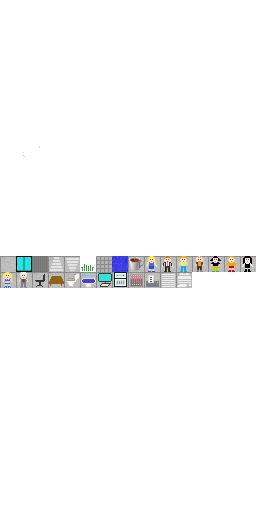
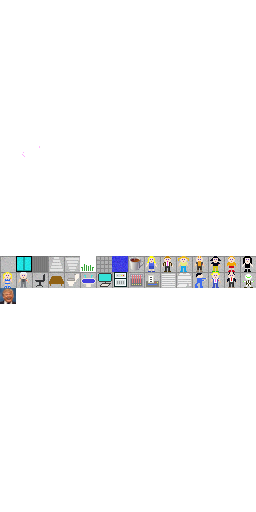
Add content for all levels, some sprites, missions and other content. 37 hours out of 40.

Changed region(s): [[0.75, 0.5312, 1.0, 0.5625], [0.0, 0.5625, 0.0625, 0.5938]]

diff --git a/src/mode_stack/game_mode.cpp b/src/mode_stack/game_mode.cpp
@@ -155,6 +155,84 @@ void spawn_npc(const uint8_t &type, const int &x, const int &y, const int &level
 					{ "says \"Have you tried turning it off and then back on again?\"", 1 }
 				}});
 		} break;
+        case 'z' : {
+            create_entity()->assign(renderable_t{284, rltk::colors::WHITE})
+                    ->assign(position_t{x,y,level})
+                    ->assign(name_t{"Office Zombie"})
+                    ->assign(static_ai{})
+                    ->assign(viewshed_t{3})
+                    ->assign(despair_attack_t{{
+                                                      { "says \"Brains!\"", 1 },
+                                                      { "says \"Oh no, another 18 hours to go!\"", 1 },
+                                                      { "says \"Abandon all hope!\"", 1 },
+                                                      { "says \"If I don't make my quota, it's my last day. Thank God.\"", 1 }
+                                              }});
+        } break;
+        case 'M' : {
+            create_entity()->assign(renderable_t{286, rltk::colors::WHITE})
+                    ->assign(position_t{x,y,level})
+                    ->assign(name_t{"Manager"})
+                    ->assign(nuisance_ai{})
+                    ->assign(viewshed_t{5})
+                    ->assign(despair_attack_t{{
+                                                      { "says \"Yeah, I'm gonna need you to come in at the weekend\"", 1 },
+                                                      { "says \"How are those TPS reports coming along?\"", 1 },
+                                                      { "says \"You really need to work on your synergy\"", 1 },
+                                                      { "says \"When you use the bathroom, use less paper and think of the bottom line\"", 1 },
+                                                      { "says \"Drink less coffee!\"", 1 },
+                                                      { "says \"Is it good for the company?\"", 1 },
+                                                      { "says \"Just another cog in the wheel\"", 1 }
+                                              }});
+        } break;
+        case 'm' : {
+            create_entity()->assign(renderable_t{285, rltk::colors::WHITE})
+                    ->assign(position_t{x,y,level})
+                    ->assign(name_t{"Junior Manager"})
+                    ->assign(nuisance_ai{})
+                    ->assign(viewshed_t{4})
+                    ->assign(despair_attack_t{{
+                                                      { "says \"Yeah, I'm gonna need you to come in at the weekend\"", 1 },
+                                                      { "says \"How are those TPS reports coming along?\"", 1 },
+                                                      { "says \"You really need to work on your synergy\"", 1 },
+                                                      { "says \"When you use the bathroom, use less paper and think of the bottom line\"", 1 },
+                                                      { "says \"Drink less coffee!\"", 1 },
+                                                      { "says \"Is it good for the company?\"", 1 },
+                                                      { "says \"Just another cog in the wheel\"", 1 }
+                                              }});
+        } break;
+        case 'R' : {
+            create_entity()->assign(renderable_t{287, rltk::colors::WHITE})
+                    ->assign(position_t{x,y,level})
+                    ->assign(name_t{"Paranoid Andriod"})
+                    ->assign(nuisance_ai{})
+                    ->assign(viewshed_t{3})
+                    ->assign(despair_attack_t{{
+                                                      { "says \"Here I am, brain the size of a planet... and you want TPS reports\"", 1 },
+                                                      { "says \"I calculated the odds. You won't like it.\"", 1 }
+                                              }});
+        } break;
+        case 'C' : {
+            create_entity()->assign(renderable_t{288, rltk::colors::WHITE})
+                    ->assign(position_t{x,y,level})
+                    ->assign(name_t{"CEO"})
+                    ->assign(nuisance_ai{})
+                    ->assign(viewshed_t{3})
+                    ->assign(despair_attack_t{{
+                                                      { "says \"It's not a cost. It's an investment in your soul.\"", 1 },
+                                                      { "says \"Have I told you about my home in the Hamptons?\"", 1 }
+                                              }});
+        } break;
+        case 'S' : {
+            create_entity()->assign(renderable_t{'s', rltk::colors::WHITE})
+                    ->assign(position_t{x,y,level})
+                    ->assign(name_t{"Security Guard"})
+                    ->assign(nuisance_ai{})
+                    ->assign(viewshed_t{4})
+                    ->assign(despair_attack_t{{
+                                                      { "says \"I've got my eyes on you!\"", 1 },
+                                                      { "says \"You don't look very trustworthy to me!\"", 1 }
+                                              }});
+        } break;
 		case ' ' : {} break;
 		default : {
 			std::cout << "Unknown REX entity: " << +type << "\n";
@@ -176,6 +254,7 @@ void set_map_tile(const vchar &c, const int &x, const int &y, const int &z, map_
 	const int idx = mapidx(x,y,z);
 	switch (c.glyph) {
 		case '.' : map.tile_type[idx] = tiles::FLOOR; break;
+        case ',' : map.tile_type[idx] = tiles::FLOOR_RED; break;
 		case '^' : map.tile_type[idx] = tiles::FREEDOM; break;
 		case '"' : map.tile_type[idx] = tiles::GRASS; break;
 		case '~' : map.tile_type[idx] = tiles::PATH; break;
@@ -214,6 +293,14 @@ void set_map_tile(const vchar &c, const int &x, const int &y, const int &z, map_
 				->assign(name_t{"Sink"})
 				->assign(blocker_t{});
 		} break;
+        case 207 : {
+            // Sink
+            map.tile_type[idx] = tiles::FLOOR;
+            create_entity()->assign(renderable_t{277, rltk::colors::WHITE})
+                    ->assign(position_t{x,y,z})
+                    ->assign(name_t{"Sink"})
+                    ->assign(blocker_t{});
+        } break;
 		case 167 : {
 			// Coffee Station
 			add_coffee_machine(x,y,z,map);
@@ -277,70 +364,21 @@ void set_map_tile(const vchar &c, const int &x, const int &y, const int &z, map_
 	}
 }
 
-void build_lobby(map_t &map) {
-	xp::rex_sprite lobby("assets/lobby.xp");
-	for (int y=0; y<MAP_HEIGHT; ++y) {
-		for (int x=0; x<MAP_WIDTH; ++x) {
-			const vchar * c = lobby.get_tile(0,x,y);
-			const int idx = mapidx(x,y,3);
+void load_prefab(const std::string filename, const int level, map_t &map) {
+    xp::rex_sprite lobby(filename);
+    for (int y=0; y<MAP_HEIGHT; ++y) {
+        for (int x=0; x<MAP_WIDTH; ++x) {
+            const vchar * c = lobby.get_tile(0,x,y);
+            const int idx = mapidx(x,y,level);
 
-			// Tiles
-			set_map_tile(*c, x, y, 3, map);
+            // Tiles
+            set_map_tile(*c, x, y, level, map);
 
-			// Spawners
-			const vchar * spawner = lobby.get_tile(1,x,y);
-			spawn_npc(spawner->glyph, x, y, 3);
-		}
-	}
-}
-
-void fill_all_except_stair_circle(map_t &map, const int &level) {
-	for (int y=0; y<MAP_HEIGHT; ++y) {
-		for (int x=0; x<MAP_WIDTH; ++x) {
-			const float distance = distance2d(x,y, MAP_WIDTH/2, MAP_HEIGHT/2);
-			if (distance > 5.0F) map.tile_type[mapidx(x,y,level)] = tiles::WALL;
-		}
-	}
-}
-
-void build_rnd_caverns(map_t &map) {
-	xp::rex_sprite lobby("assets/researchlab.xp");
-	for (int y=0; y<MAP_HEIGHT; ++y) {
-		for (int x=0; x<MAP_WIDTH; ++x) {
-			const vchar * c = lobby.get_tile(0,x,y);
-			const int idx = mapidx(x,y,0);
-
-			// Tiles
-			set_map_tile(*c, x, y, 0, map);
-
-			// Spawners
-			const vchar * spawner = lobby.get_tile(1,x,y);
-			spawn_npc(spawner->glyph, x, y, 0);
-		}
-	}
-}
-
-void build_facilities_caverns(map_t &map) {
-	// Start by filling in the whole thing except a circle around the stairs
-	fill_all_except_stair_circle(map, 1);
-	add_coffee_machine(MAP_WIDTH/2, MAP_HEIGHT/2, 1, map);
-}
-
-void build_it_caverns(map_t &map) {
-	xp::rex_sprite lobby("assets/itcave.xp");
-	for (int y=0; y<MAP_HEIGHT; ++y) {
-		for (int x=0; x<MAP_WIDTH; ++x) {
-			const vchar * c = lobby.get_tile(0,x,y);
-			const int idx = mapidx(x,y,2);
-
-			// Tiles
-			set_map_tile(*c, x, y, 2, map);
-
-			// Spawners
-			const vchar * spawner = lobby.get_tile(1,x,y);
-			spawn_npc(spawner->glyph, x, y, 2);
-		}
-	}
+            // Spawners
+            const vchar * spawner = lobby.get_tile(1,x,y);
+            spawn_npc(spawner->glyph, x, y, level);
+        }
+    }
 }
 
 void game_mode::build_game() {
@@ -362,11 +400,15 @@ void game_mode::build_game() {
 		}
 	}
 
-	build_stairs(map);
-	build_rnd_caverns(map);
-	build_facilities_caverns(map);
-	build_it_caverns(map);
-	build_lobby(map);
+    load_prefab("assets/researchlab.xp", 0, map);
+    load_prefab("assets/security.xp", 1, map);
+    load_prefab("assets/itcave.xp", 2, map);
+	load_prefab("assets/lobby.xp", 3, map);
+    load_prefab("assets/callcenter.xp", 4, map);
+    load_prefab("assets/openplan.xp", 5, map);
+    load_prefab("assets/juniormgmt.xp", 6, map);
+    load_prefab("assets/seniormgmt.xp", 7, map);
+    load_prefab("assets/temple.xp", 8, map);
 
 	// Walkability
 	map.calculate_walkability();

diff --git a/src/systems/mission_system.cpp b/src/systems/mission_system.cpp
@@ -14,6 +14,50 @@ const std::vector<std::tuple<std::string, std::string, std::string>> computer_mi
         {"I think I have a virus",
                 "My computer is running really slowly. Every time I try to work, I get pop-ups telling me to punch a monkey.",
                 "You run the company anti-virus, and clean up the computer."
+        },
+        {"I punched the monkey!",
+                "I punched the monkey, and now there are pop-ups everywhere.",
+                "You clean up the computer, and educate the user on idiocy."
+        },
+        {"I can't find my files",
+                "I saved everything on my desktop, but it's full. I can't find anything!",
+                "You gently introduce the user to the concept of folders."
+        },
+        {"PC sounds like washing machine",
+                "Whenever I try to work, my PC shakes like a washing machine.",
+                "You replace the PC fan."
+        },
+        {"My files are gone",
+                "I stapled my floppy disk to the wall, and it won't load!",
+                "You give the user the bad news that you really can't help them."
+        },
+        {"My icons are running away!",
+                "When I try to click an icon, it runs away from my cursor!",
+                "You run the company anti-virus, and clean up the computer."
+        },
+        {"Porn Everywhere!",
+                "I opened an attachment, and now all I can see is porn",
+                "You run the company anti-virus, and educate the user on attachment safety."
+        },
+        {"I can't send pictures",
+                "I took screenshots, saved them in Word. Saved that as a PDF. Now it won't send.",
+                "You carefully extract the images and send them one at a time due to size."
+        },
+        {"Microsoft have hacked me!",
+                "So Microsoft Support called me, I gave them $50 and they locked me out of my PC.",
+                "You explain that this is a common scam and that they are idiots."
+        },
+        {"No start menu",
+                "This new computer sucks! No start menu, no big blue E!",
+                "You gently explain that they now have a Mac."
+        },
+        {"Kybrd Dsnt Wrk",
+                    "My vwls r nt wrkng nymre. Hlp.",
+                    "You replace the keyboard."
+        },
+        {"Everything is squiggly!",
+                "All my menus and icons have been replaced with hieroglyphics.",
+                "You switch the default language back to English."
         }
 };
 
@@ -21,6 +65,26 @@ const std::vector<std::tuple<std::string, std::string, std::string>> printer_mis
         {"Printer hates me",
                 "Every time I try to print, I just see the message PC-LOAD-LETTER. I need to print a sales brochure!",
                 "You add paper to the printer."
+        },
+        {"Printer jam!",
+                "I tried to print hearts on my panties, and now they are melted into the printer.",
+                "You scrape molten nylon panties from the printer."
+        },
+        {"Printer says 'offline'",
+                "Every time I try to print, I just get a red X!",
+                "You turn the printer on."
+        },
+        {"My brochure is green!",
+                "Everything I print is turning green!",
+                "You add toner to the printer."
+        },
+        {"My pictures won't print",
+                "I keep sending a picture to the printer, and nothing comes out!",
+                "You clear the print queue, and adjust printer memory settings to allow for HUGE cat pictures."
+        },
+        {"It won't stop!",
+                "I printed a report. It just keeps on printing.",
+                "You clear the print queue."
         }
 };
 
@@ -28,6 +92,22 @@ const std::vector<std::tuple<std::string, std::string, std::string>> server_miss
         {"Embarrassing email",
                 "I accidentally sent my wedding photos to everyone in the office. Please clear it from the server!",
                 "You run a mailbox cleanup script, removing the embarrassing email from the mail queue."
+        },
+        {"Mailbox is full",
+                "I can't receive any email, my mailbox is full.",
+                "You clean out 100 Gb of spam."
+        },
+        {"Missing file",
+                "I saved my TPS reports, and now I can't find them on the server!",
+                "You eventually figure out which TPS Reports.doc is the right one, and hand it to the user."
+        },
+        {"Server making clicking noises",
+                "The server is making a click noise. I think it's trying to tell me something.",
+                "You replace a drive in the RAID array."
+        },
+        {"Server sounds like a jet taking off",
+                "I think there is something wrong with the server. It's roaring like a jet on final approach.",
+                "You fix the server's case fan."
         }
 };
 
@@ -35,6 +115,18 @@ const std::vector<std::tuple<std::string, std::string, std::string>> router_miss
         {"Slow Internet",
                 "Our whole area has slow Internet. Please fix it!",
                 "You fix an MTU mismatch that got in there somehow."
+        },
+        {"Outage!",
+                "Our floor is having troubles accessing the Internet.",
+                "You plug the router back in."
+        },
+        {"Internet but no servers!",
+                "An intern added a wifi router, and now we have Internet but no server access",
+                "You fix the wiring on the router, which had LAN and WAN confused."
+        },
+        {"Everything redirects to China",
+                "Every website we open is going to a Chinese site!",
+                "You flash the router with a not-hacked firmware, and change the default password."
         }
 };
 
@@ -77,10 +169,14 @@ available_mission_t build_router_mission(std::vector<std::pair<std::size_t, posi
 
 template <class T>
 std::vector<std::pair<std::size_t, position_t *>> get_available_systems(available_missions_t &m) {
+    player_t * player = nullptr;
+    each<player_t>([&player] (entity_t &e, player_t &p) { player = &p; });
+    assert(player != nullptr);
+
     std::vector<std::pair<std::size_t, position_t *>> result;
-    each<T, position_t>([&result, &m] (entity_t &e, T &t, position_t &pos) {
+    each<T, position_t>([&result, &m, &player] (entity_t &e, T &t, position_t &pos) {
         auto finder = m.fixed_systems.find(e.id);
-        if (finder == m.fixed_systems.end()) {
+        if (finder == m.fixed_systems.end() && pos.level < player->level+3 && pos.level > player->level) {
             result.push_back(std::make_pair(e.id, &pos));
         }
     });
@@ -97,9 +193,9 @@ boost::optional<available_mission_t> mission_builder(available_missions_t &m) {
     int n = rng.roll_dice(1,4);
     switch (n) {
         case 1 : if (computers.size()>0) return build_computer_mission(computers);
-        case 2 : if (printers.size()>0) return build_printer_mission(computers);
-        case 3 : if (servers.size()>0) return build_server_mission(computers);
-        case 4 : if (routers.size()>0) return build_router_mission(computers);
+        case 2 : if (printers.size()>0) return build_printer_mission(printers);
+        case 3 : if (servers.size()>0) return build_server_mission(servers);
+        case 4 : if (routers.size()>0) return build_router_mission(routers);
     }
 
     return mission;

diff --git a/src/systems/render_system.cpp b/src/systems/render_system.cpp
@@ -105,6 +105,7 @@ void render_system::update(const double ms) {
 
 					switch (map->tile_type[idx]) {
 						case tiles::FLOOR : { col = rltk::colors::WHITE; glyph = 256; } break;
+                        case tiles::FLOOR_RED : { col = rltk::colors::RED; glyph = 256; } break;
 						case tiles::WALL : { col = rltk::colors::WHITE; glyph = 258; } break;
 						case tiles::UP : { col = rltk::colors::WHITE; glyph = 259; } break;
 						case tiles::DOWN : { col = rltk::colors::WHITE; glyph = 260; } break;

diff --git a/src/components/map.hpp b/src/components/map.hpp
@@ -20,6 +20,7 @@ constexpr uint16_t PATH = 5;
 constexpr uint16_t FREEDOM = 6;
 constexpr uint16_t GLASS_DOOR = 7;
 constexpr uint16_t WATER = 8;
+constexpr uint16_t FLOOR_RED = 9;
 
 }
 
